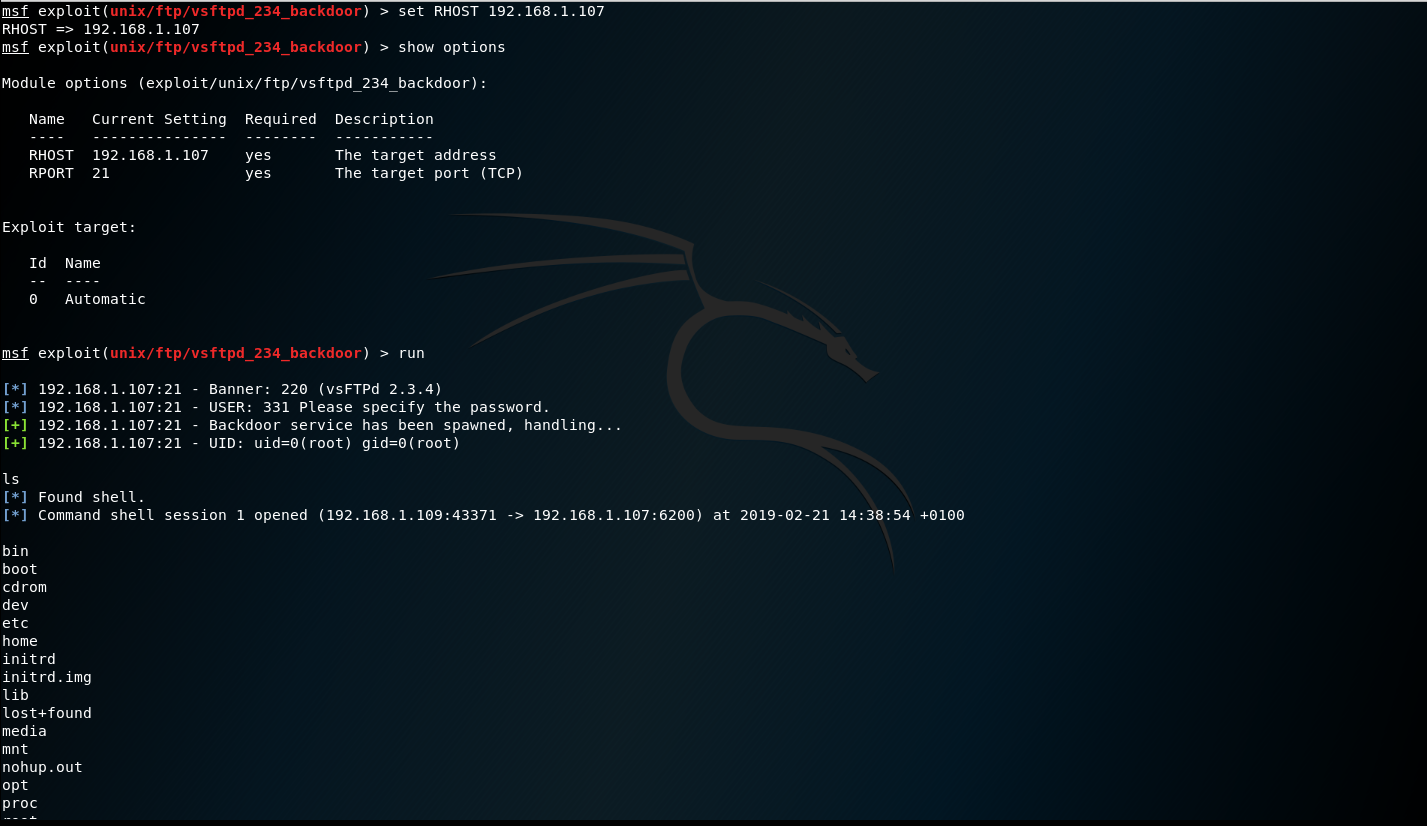
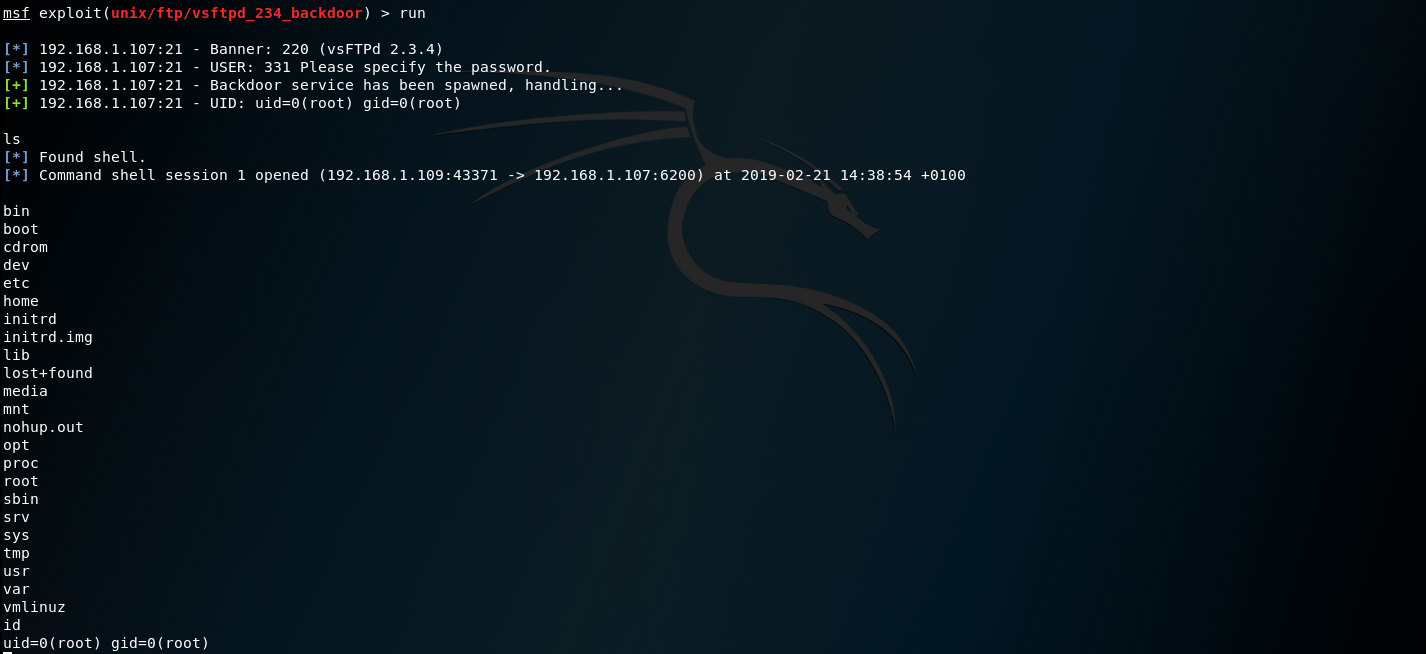
v3 rendu HTTP1.1 ok

Changed region(s): [[0.0, 0.0, 0.7714, 1.0], [0.3703, 0.367, 0.4011, 0.3976]]

diff --git a/README.md b/README.md
@@ -29,7 +29,9 @@ Cette fonctionnalité est documentée sur le site de Metasploit :
 
 > On port 21, Metasploitable2 runs vsftpd, a popular FTP server. This particular version contains a backdoor that was slipped into the source code by an unknown intruder. The backdoor was quickly identified and removed, but not before quite a few people downloaded it. If a username is sent that ends in the sequence :) [ a happy face ], the backdoored version will open a listening shell on port 6200. We can demonstrate this with telnet or use the Metasploit Framework module to automatically exploit it.
 
-
+On utilise un plugin metasploit pour exploiter cette vulnérabilité :
+![img](./metasploitable_exploit_ftp_1.PNG)
+![img](./metasploitable_exploit_ftp_2.PNG)
 
 ## Audit - Windows (XP)
 Ou la version la plus trouée de tous les temps, indétrônée depuis la fin de son support en avril 2014.
@@ -40,17 +42,39 @@ Ou la version la plus trouée de tous les temps, indétrônée depuis la fin de 
 > Quel merveilleux métier pourriez-vous exercer à l'issue de votre cursus ingésup ? (Indice: bestial)
 
 ### Périmètre
-* Serveur local disponible à `192.168.1.1`
+* Serveur web disponible à `192.168.1.1`
 * `www.ynov.com`
 * `extranet.ynov.com` (nécessite authentification)
 
-### NMAP
-![img](./http1.1-nmap.png)
-Grace au retour de la commande `nmap` on voit que le port 22 est ouvert, on peut donc tenter de "bruteforce" le mot de passe d'un utilisateur
+### Découverte
+Notre cible est un serveur web, on essaye donc de s'y rendre, et nous retrouvons face à :
+* une redirection systématique vers une connexion HTTPS
+* une authentification basique.
 
-### SSH - command : hydra
+On regarde si d'autres services écoutent sur ce serveur à l'aide de `nmap`
+![img](./http1.1-nmap.png)
+
+On remarque que le port 22 est ouvert, on peut donc tenter de "bruteforce" le mot de passe d'un utilisateur avec des outils appropriés comme `hydra`
+
+### SSH & `hydra`
 `hydra` est un outil de bruteforce par dictionnaire, nottament à distance au travers de différents protocoles (ici SSH).
 On teste d'abord avec le nom de la société en user, soit : `ynov`
 ![img](./metasexploit-ssh-hydra.png)
 
-On a donc trouvé le couple identifiant / mot de passe du site : `ynov` / `123456`
+On a donc trouvé le couple identifiant / mot de passe d'un utilisateur système : `ynov` / `123456`
+On les utilise pour ouvrir une session SSH.
+
+### HTTPS et `openssl`
+
+Une fois l'accès SSH obtenu, on peut faire quelques recherches sur la version du serveur web (`apache2`) et de la librairie de chiffrement utilisée (`openssl`)
+![img](./version_openssl.PNG)
+Après quelques recherches, cette version est répertoriée comme vulnérable à la faille "HeartBleed", et peut être exploitée à l'aide d'un pluggin `metasploit`. Cette faille implique des corruptions de la mémoire permettant de récupérer le contenu de la RAM, afin d'y trouver des informations intéressantes.
+On lance donc l'attaque avec `metasploit`
+![img](./HeartBleed.PNG)
+
+Sur le screenshot précédent, on voit un header d'autorisation HTTP avec une valeur en base 64. Une fois décodé, on trouve la valeur suivante :
+![img](./pass.PNG)
+
+On utilise ce couple identifiant mot de passe pour passer l'authentification basique du site HTTP.
+On arrive vers un réplicat du site YNOV, dans lequel, en fouillant un peu, on tombe sur la réponse au challenge posé :
+![img](./reponse_challenge.PNG)
